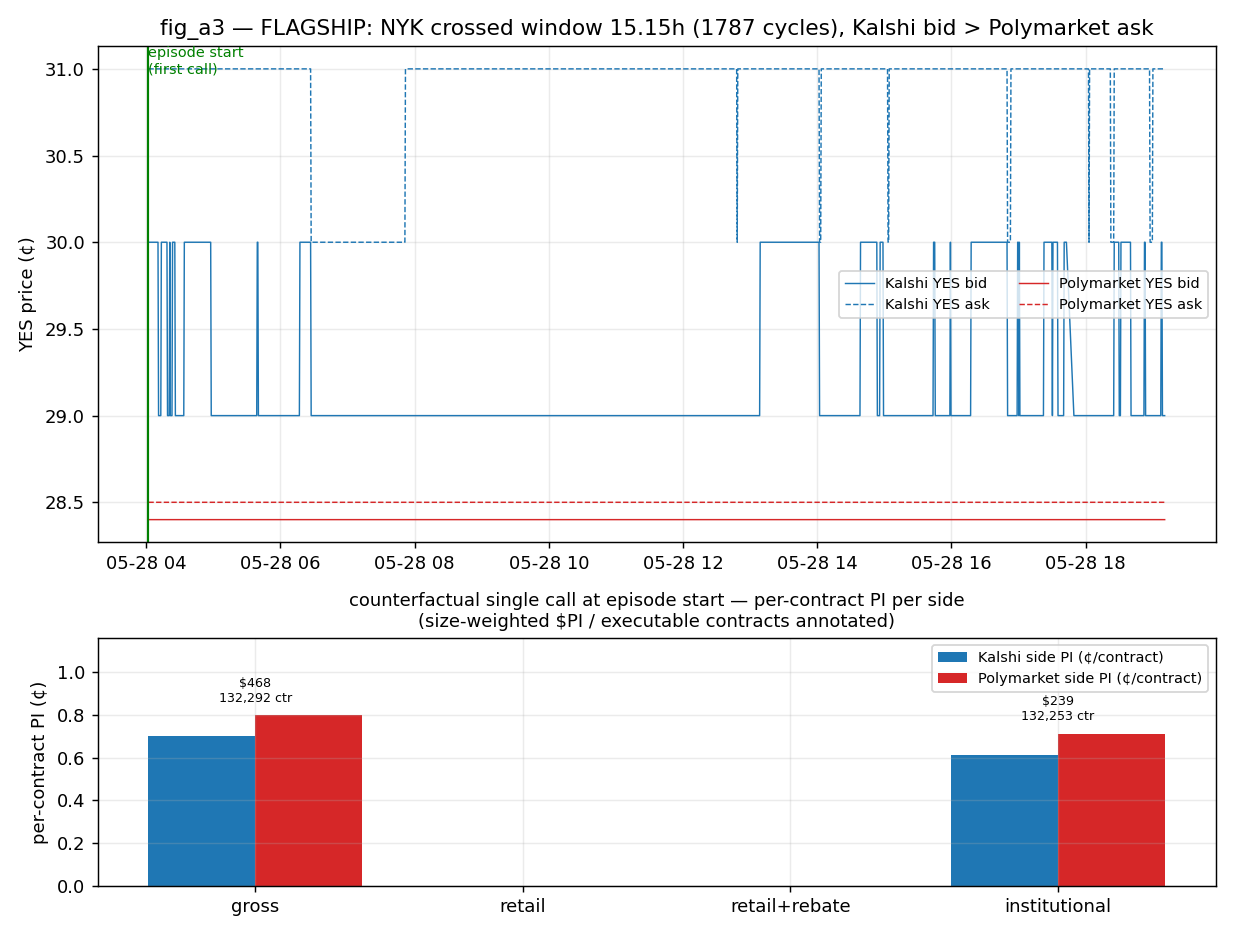
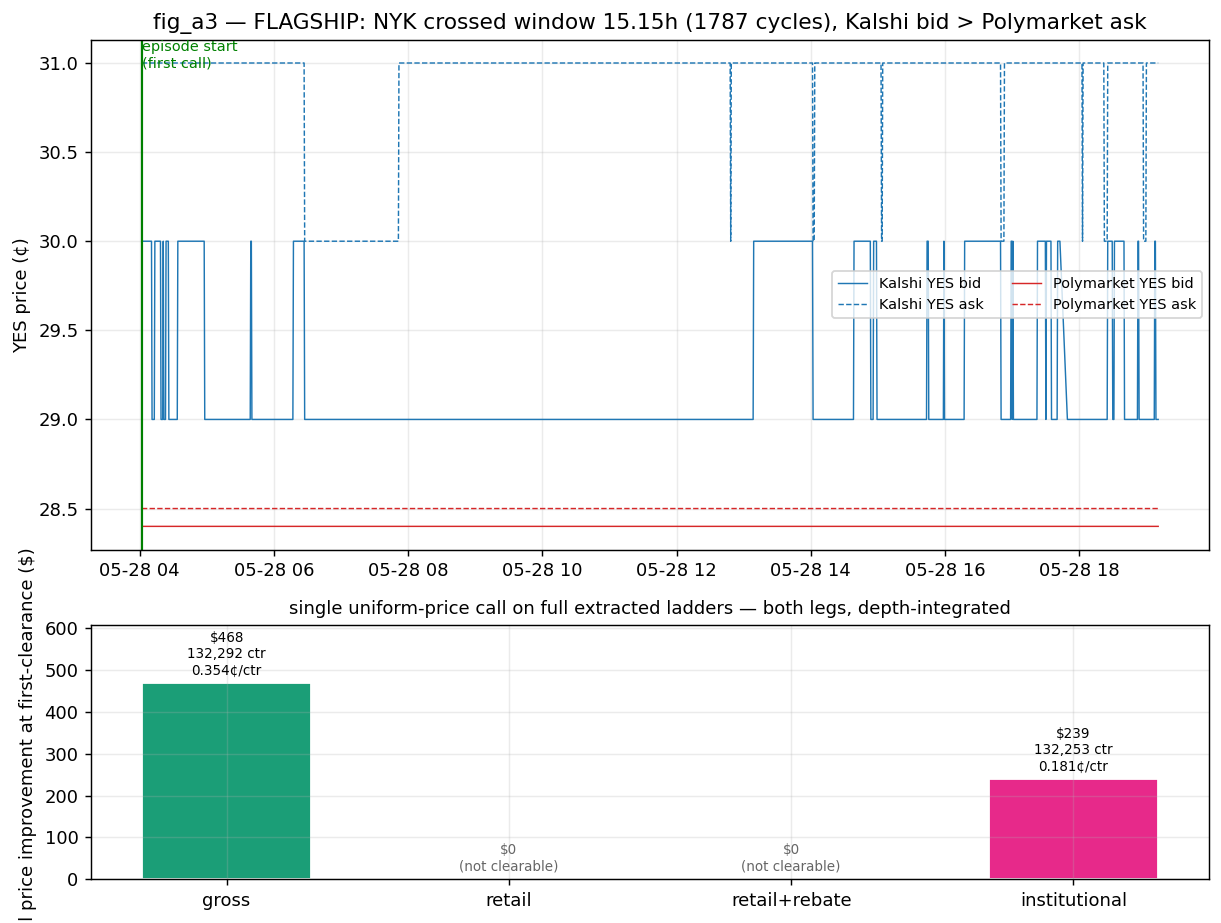
fig_a3: replace per-side per-contract panel with per-tier total $PI
Bottom panel now plots ClearingResult.agg_pi (both legs, depth-integrated)
from the same clear() that drives the headline, not clearance_bounds touch
quotes. Removes the misread where $468/132k contracts (0.354c blended) sat
next to 0.70/0.80c top-of-book bars. Retail/rebate render explicit $0.
Per-tier table appended to build_log.md.

Changed region(s): [[0.0, 0.0, 0.9959, 1.0], [0.249, 0.182, 0.2801, 0.2124]]

diff --git a/batch_counterfactual/arms/arm_a_figs.py b/batch_counterfactual/arms/arm_a_figs.py
@@ -24,9 +24,10 @@ import matplotlib.pyplot as plt
 import numpy as np
 import pandas as pd
 
-from _common import BUCKET_LABELS, FEE_CATEGORY, FIGS, INCLUDED_PAIRS, RESULTS
+from _common import BUCKET_LABELS, FEE_CATEGORY, FIGS, INCLUDED_PAIRS, LADDERS, RESULTS
 from arm_a_clearance import TIERS
-from auction import clearance_bounds
+from arm_a_sized import _orders_from_ladder, _prune_to_band
+from auction import clear
 from book import Panel
 from fees import Tier
 
@@ -112,7 +113,7 @@ def _window_quotes(panel: Panel, pair: str, t0, t1) -> pd.DataFrame:
     return m.sort_values("ts")
 
 
-def fig_a3(ep: pd.DataFrame, sized: pd.DataFrame | None) -> None:
+def fig_a3(ep: pd.DataFrame, sized: pd.DataFrame | None) -> list[tuple]:
     panel = Panel()
     nyk = ep[ep["pair"] == "nba_finals_nyk"].sort_values("duration_s", ascending=False).iloc[0]
     t0, t1 = nyk["start_ts"], nyk["end_ts"]
@@ -132,37 +133,48 @@ def fig_a3(ep: pd.DataFrame, sized: pd.DataFrame | None) -> None:
                   f"({int(nyk['n_cycles'])} cycles), Kalshi bid > Polymarket ask")
     ax1.legend(fontsize=8, ncol=2)
 
-    # Bottom: counterfactual first call at episode start, per-contract PI by tier.
-    pair_state = panel.paired_state("nba_finals_nyk", t0)
+    # Bottom: per-tier TOTAL price improvement from the SAME clear() that drives
+    # the headline numbers (max_volume objective on the full extracted ladder).
     cat = FEE_CATEGORY["nba_finals_nyk"]
-    labels, pi_k, pi_p = [], [], []
+    lad = pd.read_parquet(LADDERS / "nba_finals_nyk.parquet")
+    snap = lad[lad["ts"] == pd.Timestamp(t0)]
+    orders = _prune_to_band(_orders_from_ladder(snap))
+
+    labels, agg_pis, qtys, blended = [], [], [], []
+    tier_table: list[tuple[str, float, float, float | None]] = []
     for tlabel, tier in TIERS:
-        r = clearance_bounds(pair_state[0], pair_state[1], tier, category=cat)
+        res = clear(orders, "max_volume", tier, category=cat) if orders else None
+        if res is None or res.clearing_price is None:
+            agg, qty, blend = 0.0, 0.0, None
+        else:
+            agg, qty = float(res.agg_pi), float(res.total_qty)
+            blend = (agg / qty * 100.0) if qty else None
         labels.append(tlabel)
-        pi_k.append(float(r.pi_kalshi_c) if (r.clearable and r.pi_kalshi_c is not None) else 0.0)
-        pi_p.append(float(r.pi_polymarket_c) if (r.clearable and r.pi_polymarket_c is not None) else 0.0)
+        agg_pis.append(agg)
+        qtys.append(qty)
+        blended.append(blend)
+        tier_table.append((tlabel, agg, qty, blend))
+
     x = np.arange(len(labels))
-    ax2.bar(x - 0.2, pi_k, 0.4, color="#1f77b4", label="Kalshi side PI (¢/contract)")
-    ax2.bar(x + 0.2, pi_p, 0.4, color="#d62728", label="Polymarket side PI (¢/contract)")
-    ymax = max(pi_k + pi_p + [0.1])
-    ax2.set_ylim(0, ymax * 1.45)
-    # annotate size-weighted $ PI / contracts if available (inside headroom)
-    if sized is not None:
-        s0 = sized[sized["episode_id"] == nyk["episode_id"]].set_index("tier")
-        for i, tl in enumerate(labels):
-            if tl in s0.index and bool(s0.loc[tl, "clearable"]):
-                ax2.annotate(f"${s0.loc[tl,'pi_usd_vol']:,.0f}\n{s0.loc[tl,'contracts_vol']:,.0f} ctr",
-                             (i, max(pi_k[i], pi_p[i]) + ymax * 0.06), fontsize=7,
-                             ha="center", va="bottom")
+    ax2.bar(x, agg_pis, 0.6, color=[TIER_COLORS[t] for t in labels], edgecolor="white")
+    ymax = max(agg_pis + [1.0])
+    ax2.set_ylim(0, ymax * 1.30)
+    for i, (agg, qty, blend) in enumerate(zip(agg_pis, qtys, blended)):
+        if agg > 0 and blend is not None:
+            ax2.annotate(f"${agg:,.0f}\n{qty:,.0f} ctr\n{blend:.3f}¢/ctr",
+                         (i, agg + ymax * 0.03), fontsize=7.5, ha="center", va="bottom")
+        else:
+            ax2.annotate("$0\n(not clearable)", (i, ymax * 0.03), fontsize=7.5,
+                         ha="center", va="bottom", color="0.4")
     ax2.set_xticks(x)
     ax2.set_xticklabels(["gross", "retail", "retail+rebate", "institutional"])
-    ax2.set_ylabel("per-contract PI (¢)")
-    ax2.set_title("counterfactual single call at episode start — per-contract PI per side\n"
-                  "(size-weighted $PI / executable contracts annotated)", fontsize=10)
-    ax2.legend(fontsize=8)
+    ax2.set_ylabel("total price improvement at first-clearance ($)")
+    ax2.set_title("single uniform-price call on full extracted ladders — "
+                  "both legs, depth-integrated", fontsize=10)
     fig.tight_layout()
-    fig.savefig(FIGS / "fig_a3_knicks_flagship.png")
+    fig.savefig(FIGS / "fig_a3_knicks_flagship.png", bbox_inches="tight")
     plt.close(fig)
+    return tier_table
 
 
 # -------------------------------------------------------------------------

diff --git a/docs/build_log.md b/docs/build_log.md
@@ -571,3 +571,114 @@ NBA Finals G1 deploy (Wed Jun 3).
 F.1 REST remains capture of record until clock-sync cross-check passes.
 
 **Tests:** 114/114 green (97 prior + 17 new).
+
+
+## Reconciliation — fig_a3 bottom-panel bars vs $/contract annotation (2026-06-08T04:30:16Z)
+
+Read-only probe (`batch_counterfactual/arms/_recon_fig_a3.py`) of the flagship NYK first-clearance episode. Verifies whether the bottom-panel per-contract ¢ bars reconcile with the annotated size-weighted $ / executable-contract figure.
+
+```
+==============================================================================
+fig_a3 RECONCILIATION — flagship NYK first-clearance episode
+==============================================================================
+  episode_id = nba_finals_nyk#0000
+  start_ts   = 2026-05-28 04:01:57.339434+00:00
+  duration   = 15.15 h / 1787 cycles
+  pm_fee_category = sports
+  top-of-book: Kalshi bid/ask = 0.300/0.310   Polymarket bid/ask = 0.284/0.285
+  ladder levels in band (both venues): 13
+
+------------------------------------------------------------------------------
+(a) TOTAL EXECUTABLE CONTRACTS at the clearing price (sized clear, max_volume)
+    = ClearingResult.total_qty = min(participating demand, supply) at p_clear
+------------------------------------------------------------------------------
+    gross              contracts=  132,291.89   clear_px=0.29   n_fills=7
+    retail             contracts=        0.00   clear_px=None   n_fills=0
+    retail_pm_rebate   contracts=        0.00   clear_px=None   n_fills=0
+    institutional      contracts=  132,253.44   clear_px=0.289   n_fills=6
+
+------------------------------------------------------------------------------
+(b) THE $ TOTAL PRICE-IMPROVEMENT FIGURE (the annotation; '$468' = gross tier)
+------------------------------------------------------------------------------
+    gross-tier agg_pi (annotated $) = $468.14
+    Source: ClearingResult.agg_pi from auction._allocate, in DOLLARS (price units).
+    Exact formula — summed over BOTH legs, over ALL filled contracts:
+        agg_pi = Σ_{filled buys}  (limit_i − p_eff_i) · qty_i
+               + Σ_{filled sells} (p_eff_i − limit_i) · qty_i
+      where p_eff includes the per-leg fee (fee=0 at the gross/ZERO tier),
+      limit_i is each RESTING ladder order's own quote (NOT a single touch),
+      and the sum runs across EVERY filled level on BOTH venues — i.e. it is
+      size-weighted over the whole crossing band, both legs, not one leg and
+      not (clearing_price − single resting touch).
+    Implied size-weighted avg total PI = agg_pi/contracts = 0.3539 ¢/contract (both legs combined).
+
+------------------------------------------------------------------------------
+(c) THE PER-CONTRACT ¢ BAR HEIGHTS (bottom-panel bars)
+------------------------------------------------------------------------------
+    Source: clearance_bounds(...).pi_kalshi_c / .pi_polymarket_c.
+    Definition: TOP-OF-BOOK / MARGINAL per-contract PI of EACH SIDE at the
+    midpoint of the price-only feasible interval, using ONLY the best quotes:
+        midpoint m = mid(feasible_range)
+        pi_kalshi_c     = (k_best_bid − buy_cost(m, kalshi)) · 100        [buy_k_… side]
+                       or (sell_proceeds(m, kalshi) − k_best_ask) · 100
+        pi_polymarket_c = (sell_proceeds(m, pm) − p_best_ask) · 100        [resp.]
+                       or (p_best_bid − buy_cost(m, pm)) · 100
+    => single-contract PI at the TOUCH; NOT size-weighted, NOT averaged over fills.
+    gross              pi_kalshi=0.7000¢  pi_polymarket=0.8000¢  (sum=1.5000¢)  bounds_clear_px=0.293
+    retail             pi_kalshi=0.0000¢  pi_polymarket=0.0000¢  (sum=0.0000¢)  bounds_clear_px=None
+    retail_pm_rebate   pi_kalshi=0.0000¢  pi_polymarket=0.0000¢  (sum=0.0000¢)  bounds_clear_px=None
+    institutional      pi_kalshi=0.6121¢  pi_polymarket=0.7121¢  (sum=1.3242¢)  bounds_clear_px=0.293
+
+------------------------------------------------------------------------------
+ASSERTION  bar_height_cents * contracts / 100 == annotated_dollars  (per tier, both sides)
+------------------------------------------------------------------------------
+    gross          kalshi     bar= 0.7000¢ *     132,292 /100 = $      926.04  vs annotated $    468.14   FAIL  (lhs/rhs= 1.978)
+    gross          polymarket bar= 0.8000¢ *     132,292 /100 = $    1,058.34  vs annotated $    468.14   FAIL  (lhs/rhs= 2.261)
+    retail             not clearable (no bars / no annotation) — skipped
+    retail_pm_rebate   not clearable (no bars / no annotation) — skipped
+    institutional  kalshi     bar= 0.6121¢ *     132,253 /100 = $      809.52  vs annotated $    238.80   FAIL  (lhs/rhs= 3.390)
+    institutional  polymarket bar= 0.7121¢ *     132,253 /100 = $      941.78  vs annotated $    238.80   FAIL  (lhs/rhs= 3.944)
+
+  RESULT: ASSERTION FAILS
+
+  Cross-check with BOTH sides summed (pi_k+pi_p), still vs the same annotation:
+    gross          (pi_k+pi_p)=1.5000¢ -> $    1,984.38 vs $    468.14  (lhs/rhs= 4.239)
+    institutional  (pi_k+pi_p)=1.3242¢ -> $    1,751.30 vs $    238.80  (lhs/rhs= 7.334)
+
+------------------------------------------------------------------------------
+DIAGNOSIS — what the bars actually represent
+------------------------------------------------------------------------------
+  The assertion FAILS by construction: the two quantities are not the same metric.
+  * BARS  = TOP-OF-BOOK MARGINAL per-contract PI of ONE side at the best-quote
+            midpoint (clearance_bounds, price-only; the panel has no sizes).
+  * ANNOTATION = SIZE-WEIGHTED TOTAL agg_pi summed over BOTH legs across every
+            filled level of the FULL extracted ladder (auction.clear, max_volume).
+  Three independent reasons they cannot reconcile, even after unit conversion:
+    1. one leg (bar) vs both legs (agg_pi);
+    2. touch-only marginal PI (bar) vs depth-averaged PI over the whole band
+       (deeper ladder levels earn far less PI, diluting agg_pi/contract well
+       below the top-of-book value);
+    3. the clearing price itself differs — clearance_bounds midpoint uses only
+       the best quotes, while clear() prices the full crossing band.
+  bar_height_cents * contracts / 100 therefore OVERSTATES agg_pi (lhs/rhs > 1):
+  it applies a touch-level per-contract edge to the entire size-weighted volume.
+  The bars are a PER-CONTRACT (top-of-book) statistic; the annotation is an
+  AGGREGATE (size-weighted, both-legs) statistic. They share an episode, not a
+  formula, and should be labelled as distinct axes — not multiplied together.
+```
+
+
+## fig_a3 bottom panel — per-tier TOTAL price improvement (2026-06-08T04:40:36Z)
+
+Regenerated ONLY fig_a3 (frozen set + other figures untouched). The bottom panel now plots ClearingResult.agg_pi (both legs, depth-integrated) from the SAME clear() / max_volume call that produces the headline numbers, replacing the prior per-side per-contract clearance_bounds bars. Per-tier table:
+
+```
+fig_a3 bottom panel regenerated: per-tier TOTAL price improvement (clear, max_volume)
+flagship NYK#0000  15.15h  single uniform-price call on full extracted ladders
+tier                   agg_pi ($)      total_qty   agg_pi/total_qty (¢)
+-----------------------------------------------------------------------
+gross                      468.14     132,291.89                 0.3539
+retail                       0.00           0.00    n/a (not clearable)
+retail_pm_rebate             0.00           0.00    n/a (not clearable)
+institutional              238.80     132,253.44                 0.1806
+```
